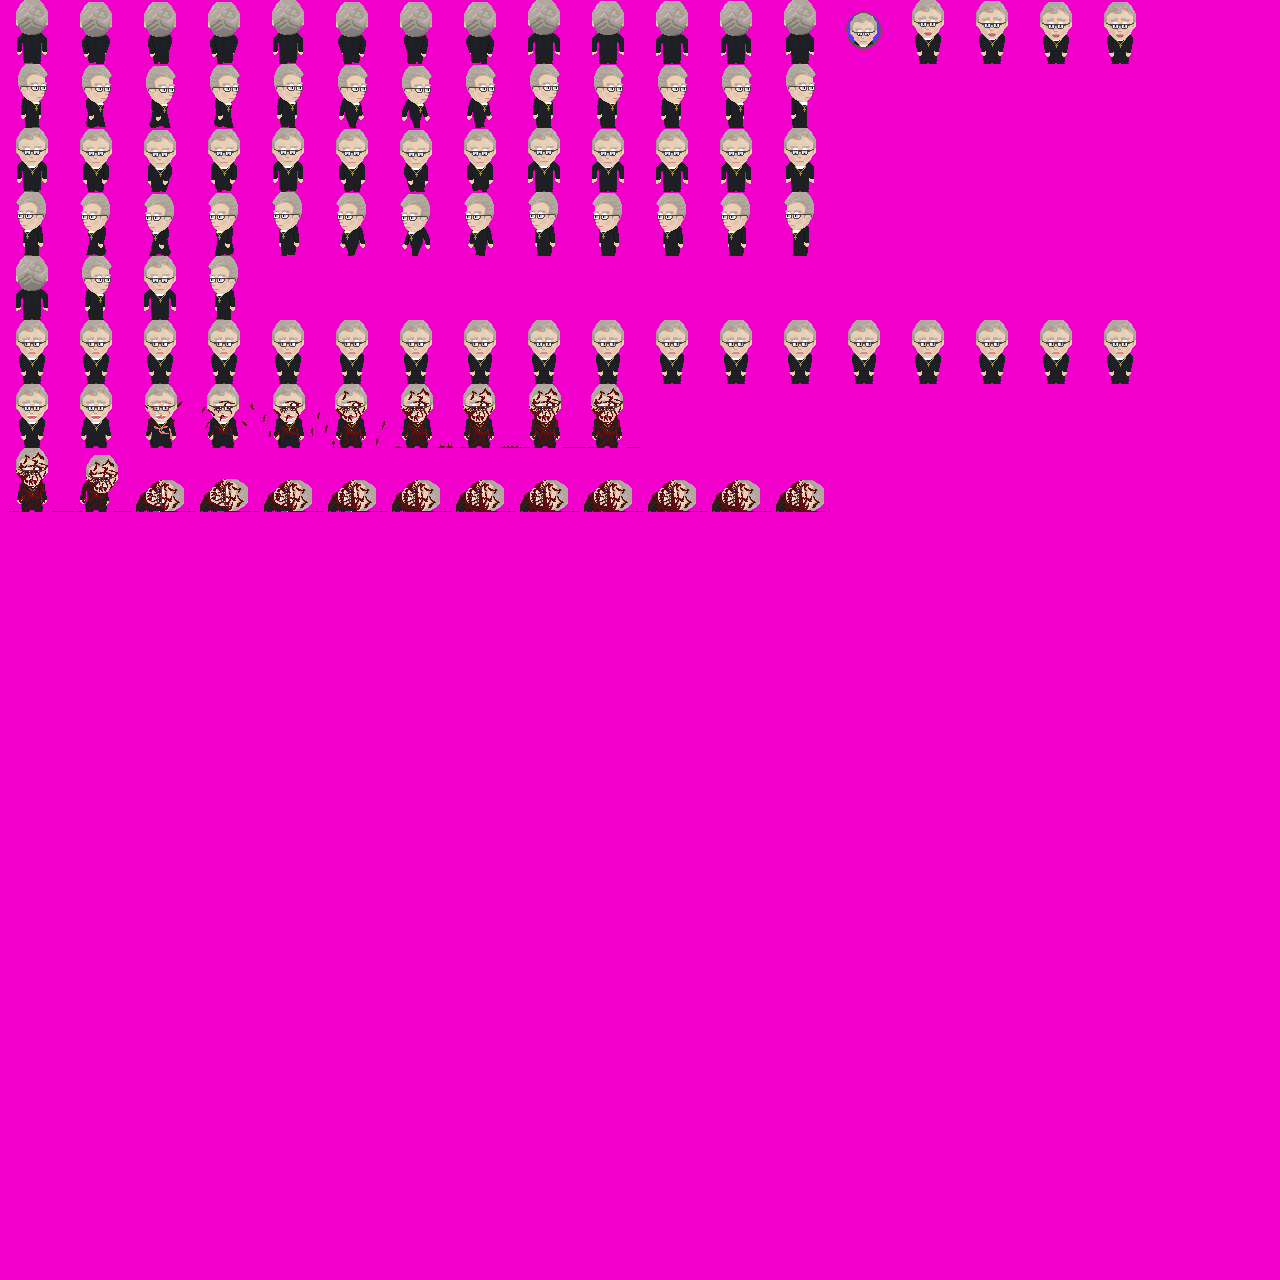
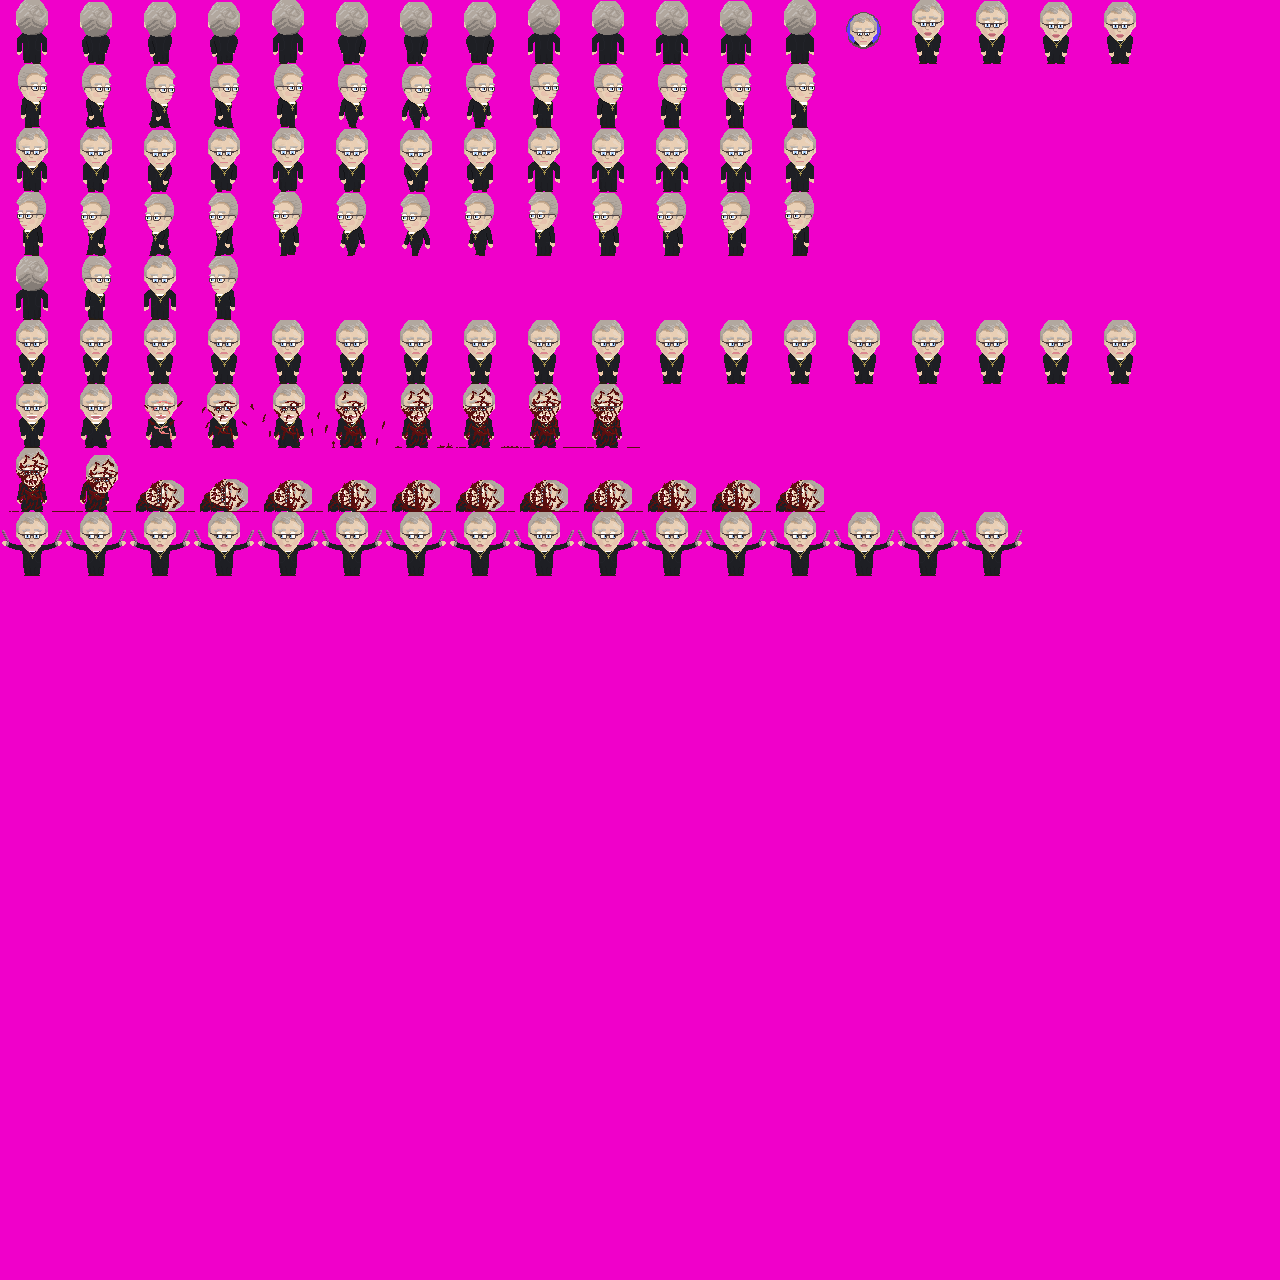
adding chainedSawChallenge anim for all characters

Changed region(s): [[0.0, 0.375, 0.8125, 0.4688]]

diff --git a/src/thequizmaster/graphics/people/DouglasSprites.java b/src/thequizmaster/graphics/people/DouglasSprites.java
@@ -107,4 +107,25 @@ public abstract class DouglasSprites {
 			new Sprite(Constants.DEFAULT_ENTITY_SIZE, 10, 7, SpriteSheet.douglasSheet),
 			new Sprite(Constants.DEFAULT_ENTITY_SIZE, 11, 7, SpriteSheet.douglasSheet),
 			new Sprite(Constants.DEFAULT_ENTITY_SIZE, 12, 7, SpriteSheet.douglasSheet)};
+
+	public static Sprite[] douglasChainedSawChallenge = new Sprite [] {
+			new Sprite(Constants.DEFAULT_ENTITY_SIZE, 0, 8, SpriteSheet.douglasSheet),
+			new Sprite(Constants.DEFAULT_ENTITY_SIZE, 1, 8, SpriteSheet.douglasSheet),
+			new Sprite(Constants.DEFAULT_ENTITY_SIZE, 2, 8, SpriteSheet.douglasSheet),
+			new Sprite(Constants.DEFAULT_ENTITY_SIZE, 3, 8, SpriteSheet.douglasSheet),
+			new Sprite(Constants.DEFAULT_ENTITY_SIZE, 4, 8, SpriteSheet.douglasSheet),
+			new Sprite(Constants.DEFAULT_ENTITY_SIZE, 5, 8, SpriteSheet.douglasSheet),
+			new Sprite(Constants.DEFAULT_ENTITY_SIZE, 6, 8, SpriteSheet.douglasSheet),
+			new Sprite(Constants.DEFAULT_ENTITY_SIZE, 7, 8, SpriteSheet.douglasSheet),
+			new Sprite(Constants.DEFAULT_ENTITY_SIZE, 8, 8, SpriteSheet.douglasSheet),
+			new Sprite(Constants.DEFAULT_ENTITY_SIZE, 9, 8, SpriteSheet.douglasSheet),
+			new Sprite(Constants.DEFAULT_ENTITY_SIZE, 10, 8, SpriteSheet.douglasSheet),
+			new Sprite(Constants.DEFAULT_ENTITY_SIZE, 11, 8, SpriteSheet.douglasSheet),
+			new Sprite(Constants.DEFAULT_ENTITY_SIZE, 12, 8, SpriteSheet.douglasSheet),
+			new Sprite(Constants.DEFAULT_ENTITY_SIZE, 13, 8, SpriteSheet.douglasSheet),
+			new Sprite(Constants.DEFAULT_ENTITY_SIZE, 14, 8, SpriteSheet.douglasSheet),
+			new Sprite(Constants.DEFAULT_ENTITY_SIZE, 15, 8, SpriteSheet.douglasSheet)};
+
+
+
 }

diff --git a/src/thequizmaster/graphics/people/KarlSprites.java b/src/thequizmaster/graphics/people/KarlSprites.java
@@ -130,4 +130,34 @@ public abstract class KarlSprites {
 			new Sprite(Constants.DEFAULT_ENTITY_SIZE, 15, 2, SpriteSheet.karlSheet),
 			new Sprite(Constants.DEFAULT_ENTITY_SIZE, 16, 2, SpriteSheet.karlSheet),
 			new Sprite(Constants.DEFAULT_ENTITY_SIZE, 17, 2, SpriteSheet.karlSheet)};
+
+	public static Sprite[] karlChainedSawChallenge = new Sprite [] {
+			new Sprite(Constants.DEFAULT_ENTITY_SIZE, 0, 8, SpriteSheet.karlSheet),
+			new Sprite(Constants.DEFAULT_ENTITY_SIZE, 1, 8, SpriteSheet.karlSheet),
+			new Sprite(Constants.DEFAULT_ENTITY_SIZE, 2, 8, SpriteSheet.karlSheet),
+			new Sprite(Constants.DEFAULT_ENTITY_SIZE, 3, 8, SpriteSheet.karlSheet),
+			new Sprite(Constants.DEFAULT_ENTITY_SIZE, 4, 8, SpriteSheet.karlSheet),
+			new Sprite(Constants.DEFAULT_ENTITY_SIZE, 5, 8, SpriteSheet.karlSheet),
+			new Sprite(Constants.DEFAULT_ENTITY_SIZE, 6, 8, SpriteSheet.karlSheet),
+			new Sprite(Constants.DEFAULT_ENTITY_SIZE, 7, 8, SpriteSheet.karlSheet),
+			new Sprite(Constants.DEFAULT_ENTITY_SIZE, 8, 8, SpriteSheet.karlSheet),
+			new Sprite(Constants.DEFAULT_ENTITY_SIZE, 9, 8, SpriteSheet.karlSheet),
+			new Sprite(Constants.DEFAULT_ENTITY_SIZE, 10, 8, SpriteSheet.karlSheet),
+			new Sprite(Constants.DEFAULT_ENTITY_SIZE, 11, 8, SpriteSheet.karlSheet),
+			new Sprite(Constants.DEFAULT_ENTITY_SIZE, 12, 8, SpriteSheet.karlSheet),
+			new Sprite(Constants.DEFAULT_ENTITY_SIZE, 13, 8, SpriteSheet.karlSheet),
+			new Sprite(Constants.DEFAULT_ENTITY_SIZE, 14, 8, SpriteSheet.karlSheet),
+			new Sprite(Constants.DEFAULT_ENTITY_SIZE, 15, 8, SpriteSheet.karlSheet)};
+
+
+
+
+
+
+
+
+
+
+
 }
+

diff --git a/src/thequizmaster/graphics/people/NolanSprites.java b/src/thequizmaster/graphics/people/NolanSprites.java
@@ -131,4 +131,22 @@ public abstract class NolanSprites {
 
 	};
 
+	public static Sprite[] nolanChainedSawChallenge = new Sprite [] {
+			new Sprite(Constants.DEFAULT_ENTITY_SIZE, 0, 8, SpriteSheet.nolanSheet),
+			new Sprite(Constants.DEFAULT_ENTITY_SIZE, 1, 8, SpriteSheet.nolanSheet),
+			new Sprite(Constants.DEFAULT_ENTITY_SIZE, 2, 8, SpriteSheet.nolanSheet),
+			new Sprite(Constants.DEFAULT_ENTITY_SIZE, 3, 8, SpriteSheet.nolanSheet),
+			new Sprite(Constants.DEFAULT_ENTITY_SIZE, 4, 8, SpriteSheet.nolanSheet),
+			new Sprite(Constants.DEFAULT_ENTITY_SIZE, 5, 8, SpriteSheet.nolanSheet),
+			new Sprite(Constants.DEFAULT_ENTITY_SIZE, 6, 8, SpriteSheet.nolanSheet),
+			new Sprite(Constants.DEFAULT_ENTITY_SIZE, 7, 8, SpriteSheet.nolanSheet),
+			new Sprite(Constants.DEFAULT_ENTITY_SIZE, 8, 8, SpriteSheet.nolanSheet),
+			new Sprite(Constants.DEFAULT_ENTITY_SIZE, 9, 8, SpriteSheet.nolanSheet),
+			new Sprite(Constants.DEFAULT_ENTITY_SIZE, 10, 8, SpriteSheet.nolanSheet),
+			new Sprite(Constants.DEFAULT_ENTITY_SIZE, 11, 8, SpriteSheet.nolanSheet),
+			new Sprite(Constants.DEFAULT_ENTITY_SIZE, 12, 8, SpriteSheet.nolanSheet),
+			new Sprite(Constants.DEFAULT_ENTITY_SIZE, 13, 8, SpriteSheet.nolanSheet),
+			new Sprite(Constants.DEFAULT_ENTITY_SIZE, 14, 8, SpriteSheet.nolanSheet),
+			new Sprite(Constants.DEFAULT_ENTITY_SIZE, 15, 8, SpriteSheet.nolanSheet)};
+
 }

diff --git a/src/thequizmaster/quizmode/SawChallenge.java b/src/thequizmaster/quizmode/SawChallenge.java
@@ -29,10 +29,12 @@ public class SawChallenge extends MainEvent {
         isAskingQuestion = true;
         player = game.player;
         player.dir = 2;
+        player.y += 30;
         getDifficultQuestion(questionsAnswered + 1);
         createSawTrap();
         numberOfQuestions = random.nextInt(4) + 1;
         tv = new TV(room.topLeftCornerX + Constants.DEFAULT_SPRITE_SIZE, room.topLeftCornerY, game);
+        player.animation = new Animation(.7, player.chainedSawChallengeAnim, player, 0, true);
     }
 
     public void start(){
@@ -80,7 +82,7 @@ public class SawChallenge extends MainEvent {
     }
 
     public void playerWon() {
-        player.y += 32;
+        player.animation = null;
         game.quiz = null;
     }
 

diff --git a/src/thequizmaster/entity/mob/people/Douglas.java b/src/thequizmaster/entity/mob/people/Douglas.java
@@ -3,6 +3,7 @@ package thequizmaster.entity.mob.people;
 import thequizmaster.entity.mob.Player;
 import thequizmaster.gamestates.MainGame;
 import thequizmaster.graphics.people.DouglasSprites;
+import thequizmaster.graphics.people.KarlSprites;
 import thequizmaster.graphics.people.NolanSprites;
 import thequizmaster.input.Keyboard;
 
@@ -33,6 +34,9 @@ public class Douglas extends Player {
 		chainGameWaiting = DouglasSprites.douglasChainGameWaiting;
 		chainGamePull = DouglasSprites.douglasChainGamePull;
 		chainGameDeath = DouglasSprites.douglasChainGameDeath;
+
+		chainedSawChallengeAnim = DouglasSprites.douglasChainedSawChallenge;
+
 	}
 	
 

diff --git a/src/thequizmaster/entity/mob/people/Nolan.java b/src/thequizmaster/entity/mob/people/Nolan.java
@@ -3,6 +3,7 @@ package thequizmaster.entity.mob.people;
 import thequizmaster.entity.mob.Player;
 import thequizmaster.gamestates.MainGame;
 import thequizmaster.graphics.people.DouglasSprites;
+import thequizmaster.graphics.people.KarlSprites;
 import thequizmaster.graphics.people.NolanSprites;
 import thequizmaster.input.Keyboard;
 
@@ -33,6 +34,9 @@ public class Nolan extends Player {
 
 		sprite = standingSprites[2];
 		HUDImage = NolanSprites.nolanHUDFaceImage;
+
+		chainedSawChallengeAnim = NolanSprites.nolanChainedSawChallenge;
+
 	}
 	
 	

diff --git a/src/thequizmaster/entity/mob/Player.java b/src/thequizmaster/entity/mob/Player.java
@@ -56,6 +56,8 @@ public class Player extends Mob {
 	public Sprite[] chainGamePull;
 	public Sprite[] chainGameDeath;
 
+	public Sprite[] chainedSawChallengeAnim;
+
 	public Sprite[] wireTrapDeathAnim;
 	public Sprite wireTrapCorpse;
 	public Sprite HUDImage;

diff --git a/src/thequizmaster/entity/mob/people/Karl.java b/src/thequizmaster/entity/mob/people/Karl.java
@@ -36,6 +36,8 @@ public class Karl extends Player {
 
         poisonAnim = KarlSprites.karlPoisonDeath;
 
+        chainedSawChallengeAnim = KarlSprites.karlChainedSawChallenge;
+
     }
 
 
